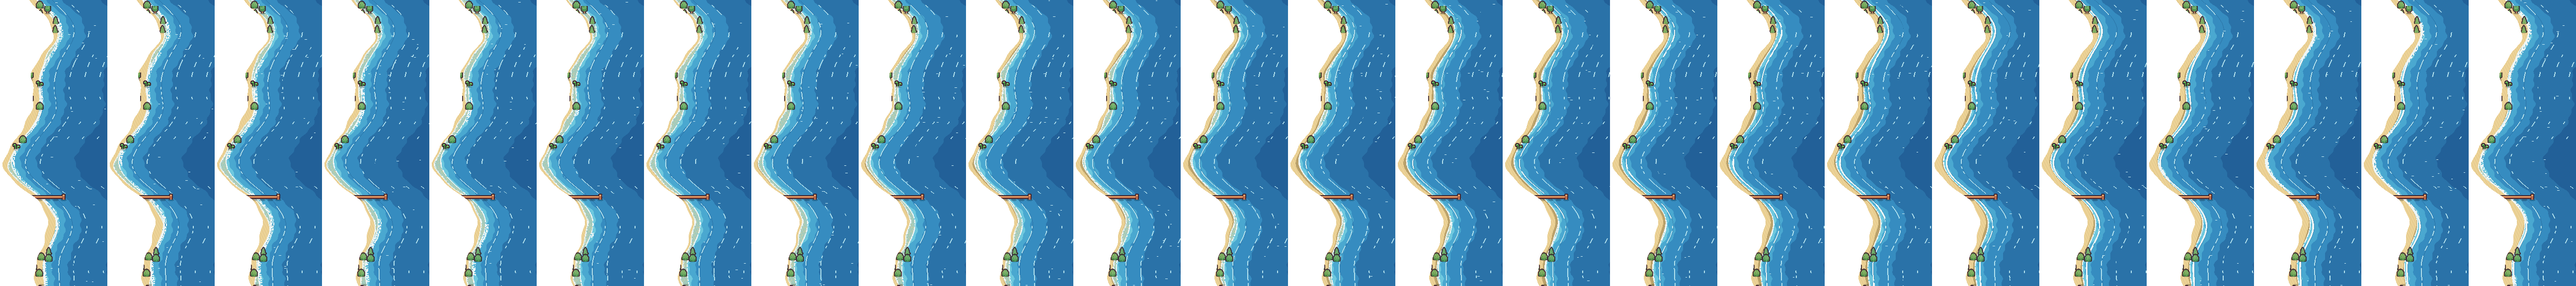
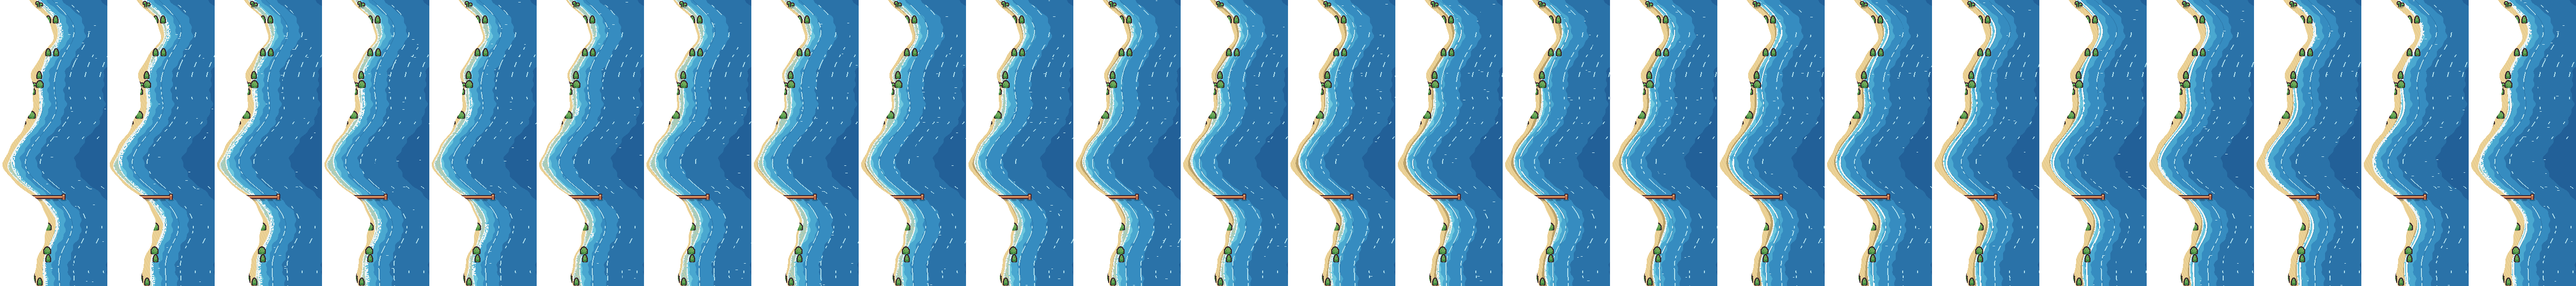
Mapa-Múndi: árvores sempre inteiras (copa + tronco), sem sobrepor nem ficar transparentes

diff --git a/dataquest/scripts/gerar_mundo_biomas.py b/dataquest/scripts/gerar_mundo_biomas.py
@@ -2,8 +2,8 @@
 # Floresta (Python) → Cemitério das Catacumbas (SQL) → Terras da Forja (Pandas) → Costa do Farol (Data Viz).
 # Tiles CC0 da Kenney: Tiny Town e Tiny Dungeon (https://kenney.nl/assets/tiny-town, /tiny-dungeon).
 # Uso: python gerar_mundo_biomas.py <pasta tiny-town extraída> <pasta tiny-dungeon extraída> <saída.png>
-# Só árvores INTEIRAS (tiles de 1 bloco), espalhadas com deslocamento livre e desenhadas de trás para a frente:
-# a floresta fica densa sem as meias-árvores do mapa antigo. Requer Pillow.
+# Só árvores INTEIRAS (a alta é copa + tronco, dois tiles juntos), desenhadas de trás para a frente.
+# O 4º argumento (opcional) gera a folha de quadros do mar animado. Requer Pillow.
 import math
 import random
 import sys
@@ -254,18 +254,29 @@ for y in range(64):
 objs.append((lx * 16 + 10 - 32, ly * 16 - 60 + 16 - 32, glow, 1))
 
 # ── Árvores inteiras, densas nas bordas e esparsas perto da estrada ──
+# Na Tiny Town a árvore alta ocupa DOIS tiles (copa em cima, tronco embaixo: 3+15 laranja, 4+16 verde).
+# Cada árvore aqui é um sprite inteiro — nunca meia árvore solta.
+def stack(top, bottom):
+    t = Image.new("RGBA", (16, 32)); t.alpha_composite(town(top), (0, 0)); t.alpha_composite(town(bottom), (0, 16)); return t
+TREE_SPRITES = {"alta-laranja": stack(3, 15), "alta-verde": stack(4, 16), "laranja": town(27), "verde": town(28), "moita": town(5)}
 TREES = {
-    FOREST: [4, 16, 28, 5, 4, 16, 28, 15, 3],
-    GRAVE: [4, 28, 16, 5],
-    FORGE: [3, 15, 27, 3, 27],
-    COAST: [5, 16, 4],
+    FOREST: ["alta-verde", "verde", "moita", "alta-verde", "verde", "alta-laranja", "laranja", "verde"],
+    GRAVE: ["alta-verde", "verde", "moita", "verde"],
+    FORGE: ["alta-laranja", "laranja", "laranja", "alta-laranja", "moita"],
+    COAST: ["moita", "verde", "alta-verde"],
 }
 DECOR = {FOREST: [29, 17], GRAVE: [17], FORGE: [29], COAST: [17]}
+def darker(t, k):  # escurece só a cor; a transparência continua 0 ou 255 (sem árvore fantasma)
+    r, g, bl, a = t.split()
+    f = lambda v: int(v * k)
+    return Image.merge("RGBA", (r.point(f), g.point(f), bl.point(f), a))
 def near_path(x, y, r):
     for yy in range(y - r, y + r + 1):
         for xx in range(x - r, x + r + 1):
             if P(xx, yy): return True
     return False
+def blocked(x, y): return 0 <= x < W and 0 <= y < H and (occupied[y][x] or sea[y][x])
+tree_at = set()  # tiles que já têm árvore (a alta ocupa dois): uma árvore nunca esconde metade da outra
 for y in range(-1, H + 1):
     for x in range(-1, W + 1):
         tx, ty = min(max(x, 0), W - 1), min(max(y, 0), H - 1)
@@ -276,14 +287,19 @@ for y in range(-1, H + 1):
         if edge < 5: dens = max(dens, 0.82 if b != COAST else 0.45)
         if near_path(tx, ty, 1): dens *= 0.05
         elif near_path(tx, ty, 3): dens *= 0.4
-        if random.random() < dens:
-            ox, oy = random.randint(-3, 3), random.randint(-4, 2)
-            t = town(random.choice(TREES[b]))
+        if (x, y) not in tree_at and random.random() < dens:
+            ox, oy = random.randint(-1, 1), random.randint(-1, 1)
+            kind = random.choice(TREES[b])
+            # a copa da árvore alta sobe um tile: não pode cobrir outra árvore, casa, lápide, estrada nem o mar
+            if kind.startswith("alta") and ((x, y - 1) in tree_at or blocked(x, y - 1) or P(x, y - 1)): kind = kind.replace("alta-", "")
+            tree_at.add((x, y))
+            if kind.startswith("alta"): tree_at.add((x, y - 1))
+            t = TREE_SPRITES[kind]
             # copa um pouco mais escura que a grama; no cemitério, árvores secas/escuras
-            t = Image.eval(t, (lambda v: int(v * 0.72)) if b == GRAVE else (lambda v: int(v * 0.86)))
-            objs.append((x * 16 + ox, y * 16 + oy, t, 0))
-        if random.random() < 0.05 and not near_path(tx, ty, 1):
-            objs.append((x * 16 + random.randint(-4, 4), y * 16 + random.randint(-4, 4), town(random.choice(DECOR[b])), 0))
+            t = darker(t, 0.72 if b == GRAVE else 0.86)
+            objs.append((x * 16 + ox, (y + 1) * 16 - t.height + oy, t, 0))
+        elif random.random() < 0.05 and not near_path(tx, ty, 1):
+            objs.append((x * 16 + random.randint(-3, 3), y * 16 + random.randint(-3, 3), town(random.choice(DECOR[b])), 0))
 
 # sombra no chão sob cada objeto + desenho na ordem de y (de trás para a frente)
 objs.sort(key=lambda o: (o[3], o[1] + o[2].height))
@@ -295,7 +311,7 @@ def draw_objects(im, xmin=0):
     for x, y, t, layer in objs:
         if x + t.width + 2 <= xmin: continue
         if layer == 0 and t.width == 16:
-            im.alpha_composite(shadow, (max(0, x + 2), max(0, min(PH - 4, y + 13))))
+            im.alpha_composite(shadow, (max(0, x + 2), max(0, min(PH - 4, y + t.height - 3))))
         # recorta o que sai da imagem (árvores da borda ficam pela metade só FORA da tela, não no meio do mapa)
         cx, cy = max(0, -x), max(0, -y)
         cw, ch = min(t.width, PW - x), min(t.height, PH - y)

diff --git a/dataquest/CLAUDE.md b/dataquest/CLAUDE.md
@@ -534,6 +534,10 @@ e a 3ª sala da Masmorra; XP conferido no servidor e tela de perfil. Mobile cont
   `.world-sea` do `WorldBackground` em `left: 78.90625%` (x = 808 de 1024), `steps(24, jump-none)` em 3,6 s.
   Se mudar a costa, o script imprime o novo x: ajustar `left`/`width` no CSS. A transição entre biomas virou dither
   de Bayer em blocos de 2 px (o degradê liso borrava a pixel art). A imagem fixa é o quadro 0.
+- **Árvores inteiras no Mapa-Múndi (mesmo dia):** a árvore alta da Tiny Town são DOIS tiles (3+15 laranja, 4+16
+  verde) e o gerador sorteava cada metade solta (copa sem tronco, tronco sem copa). Agora `TREE_SPRITES` monta a árvore
+  alta inteira, `tree_at` impede uma árvore de esconder metade da outra, e o escurecimento (`darker`) mexe só na cor
+  (antes deixava a árvore 86% opaca, com "fantasmas" onde sobrepunha).
 
 ### Sessão 19 — Fases novas, Masmorra Secreta e poderes das raças (2026-10-26)
 Pedido do usuário: "mais fases é essencial"; fases bônus de Python com animação épica; raças com efeito real e visual.
